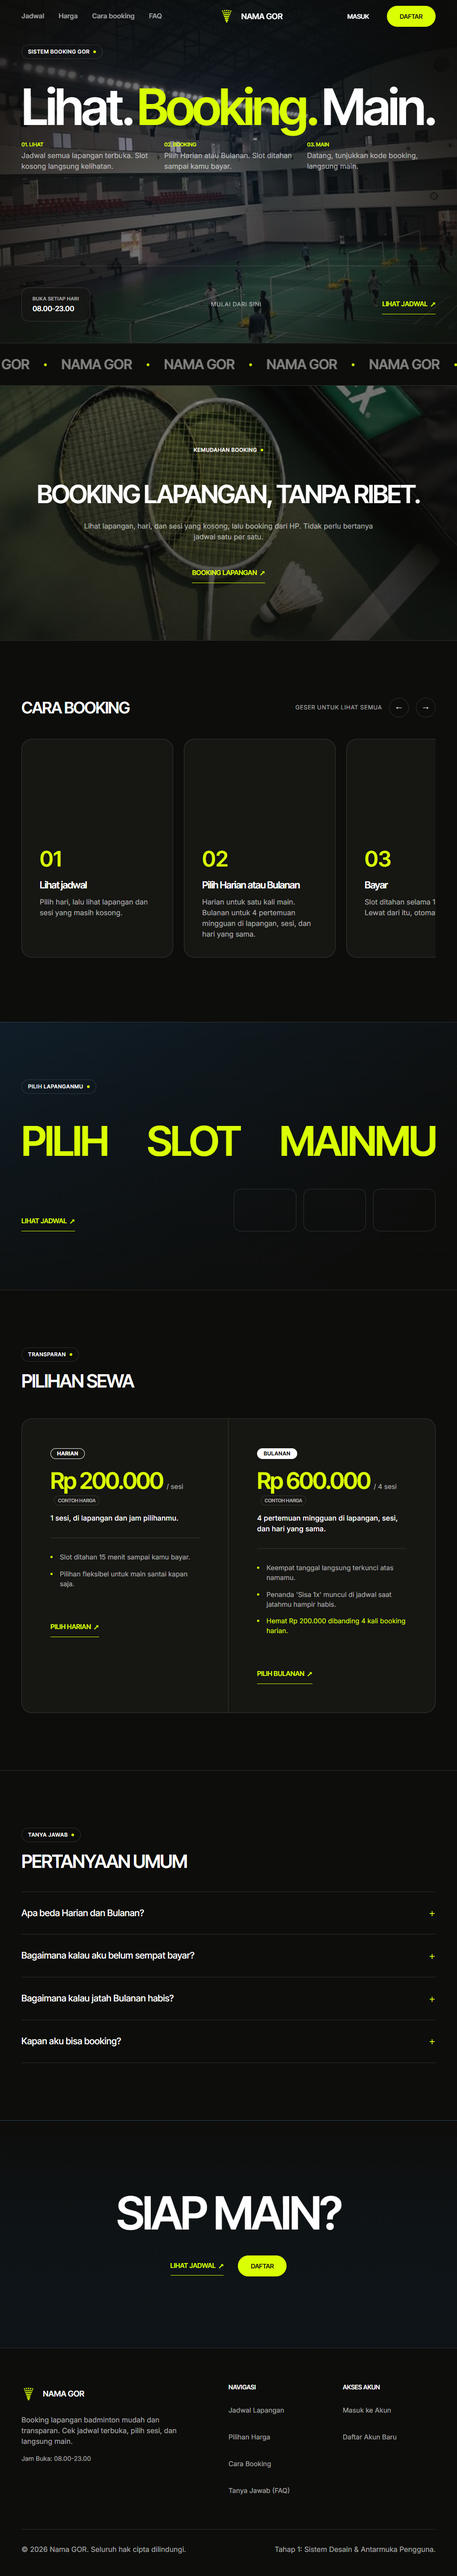
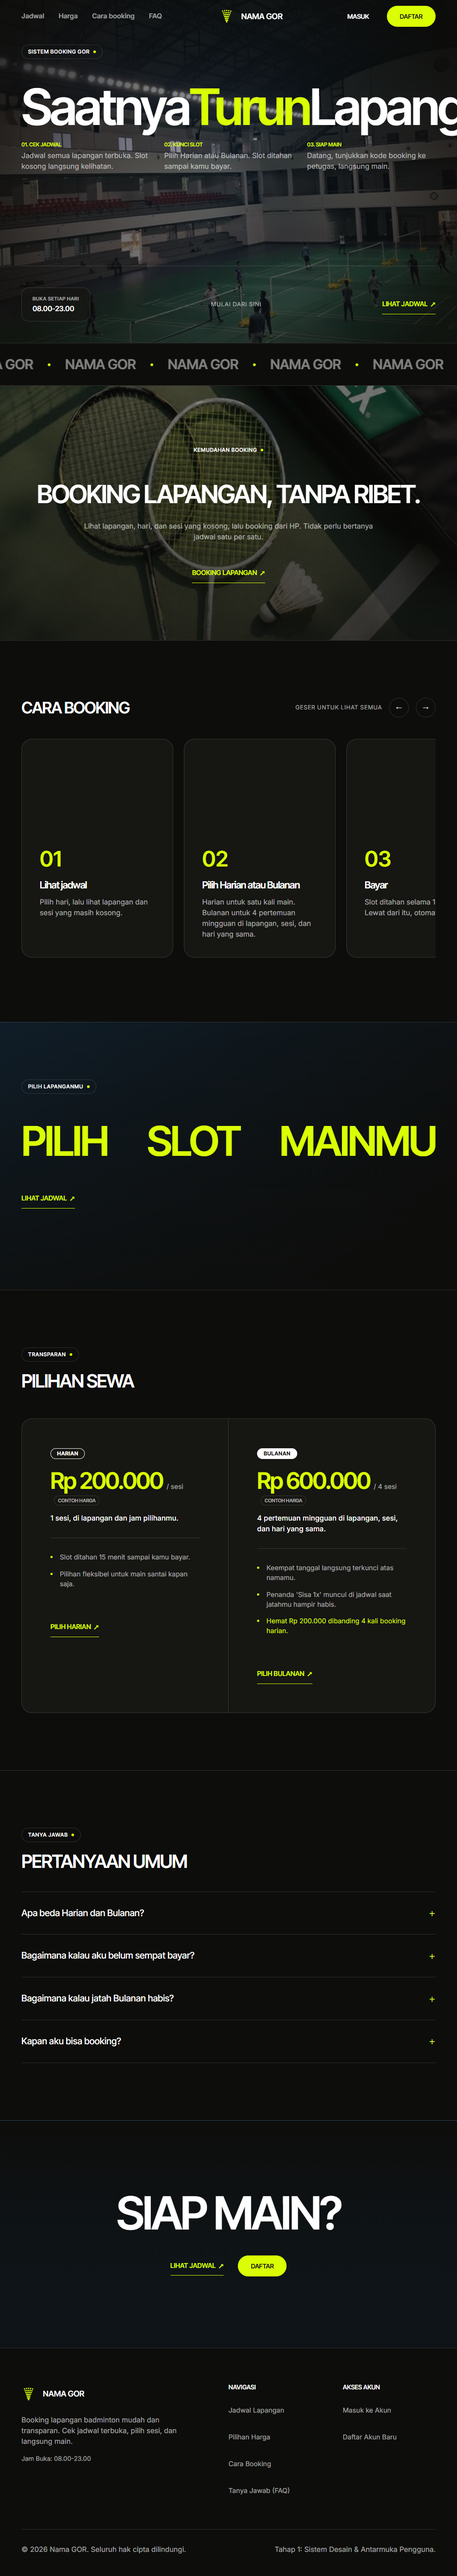
refactor: perbarui headline hero ke 'Saatnya Turun Lapangan' dan hapus thumbnail pratinjau lapangan

Changed region(s): [[0.0625, 0.0312, 1.0, 0.0624]]

diff --git a/resources/views/landing.blade.php b/resources/views/landing.blade.php
@@ -17,23 +17,23 @@
             
             {{-- Satu h1 tunggal di halaman --}}
             <h1 class="hero-judul">
-                <span>Lihat.</span>
-                <span class="teks-lime">Booking.</span>
-                <span>Main.</span>
+                <span>Saatnya</span>
+                <span class="teks-lime">Turun</span>
+                <span>Lapangan.</span>
             </h1>
 
             <div class="hero-grid-sub">
                 <div class="hero-sub-item">
-                    <span class="hero-sub-label">01. Lihat</span>
+                    <span class="hero-sub-label">01. Cek Jadwal</span>
                     <p>Jadwal semua lapangan terbuka. Slot kosong langsung kelihatan.</p>
                 </div>
                 <div class="hero-sub-item">
-                    <span class="hero-sub-label">02. Booking</span>
+                    <span class="hero-sub-label">02. Kunci Slot</span>
                     <p>Pilih Harian atau Bulanan. Slot ditahan sampai kamu bayar.</p>
                 </div>
                 <div class="hero-sub-item">
-                    <span class="hero-sub-label">03. Main</span>
-                    <p>Datang, tunjukkan kode booking, langsung main.</p>
+                    <span class="hero-sub-label">03. Siap Main</span>
+                    <p>Datang, tunjukkan kode booking ke petugas, langsung main.</p>
                 </div>
             </div>
         </div>
@@ -193,29 +193,6 @@
 
         <div class="pilih-lapangan-bawah">
             <x-cta href="{{ route('jadwal') }}" teks="LIHAT JADWAL" />
-
-            {{-- Foto kecil lapangan: hanya dirender jika file ada --}}
-            @php
-                $adaPratinjau = false;
-                for ($n = 1; $n <= 3; $n++) {
-                    if (file_exists(public_path("images/lapangan-{$n}.jpg"))) {
-                        $adaPratinjau = true;
-                        break;
-                    }
-                }
-            @endphp
-
-            @if ($adaPratinjau)
-                <div class="lapangan-pratinjau-deret">
-                    @for ($n = 1; $n <= 3; $n++)
-                        @if (file_exists(public_path("images/lapangan-{$n}.jpg")))
-                            <div class="lapangan-pratinjau-kotak">
-                                <x-foto nama="lapangan-{{ $n }}.jpg" alt="Pratinjau Lapangan {{ $n }}" :width="800" :height="600" :lazy="false" />
-                            </div>
-                        @endif
-                    @endfor
-                </div>
-            @endif
         </div>
     </div>
 </section>

diff --git a/tests/Feature/LandingPageTest.php b/tests/Feature/LandingPageTest.php
@@ -17,15 +17,15 @@ class LandingPageTest extends TestCase
     }
 
     /**
-     * Memastikan beranda memuat tiga kata raksasa hero: "Lihat.", "Booking.", "Main.".
+     * Memastikan beranda memuat kalimat raksasa hero: "Saatnya", "Turun", "Lapangan.".
      */
     public function test_beranda_memuat_tiga_kata_hero(): void
     {
         $response = $this->get('/');
         $response->assertStatus(200);
-        $response->assertSee('Lihat.');
-        $response->assertSee('Booking.');
-        $response->assertSee('Main.');
+        $response->assertSee('Saatnya');
+        $response->assertSee('Turun');
+        $response->assertSee('Lapangan.');
     }
 
     /**
